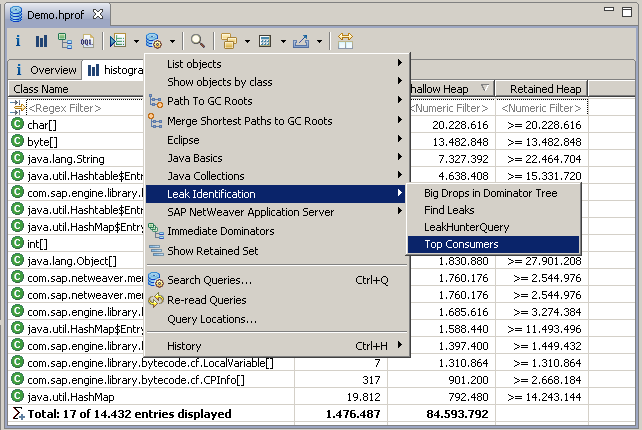
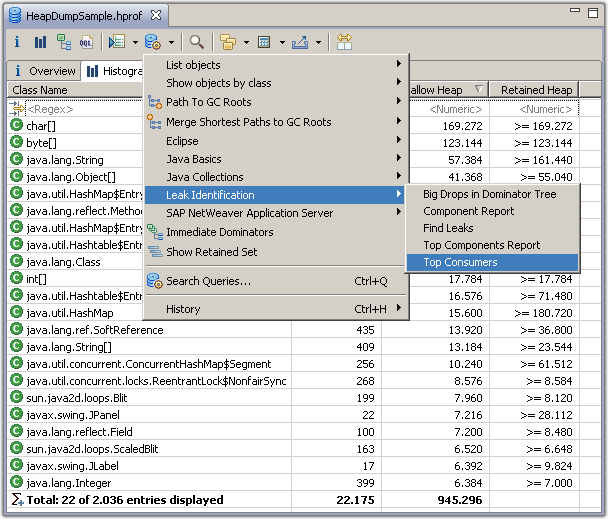
small update to documentation: add initial nn page, added configuration page, removed internal custom class names from screenshots

diff --git a/plugins/org.eclipse.mat.ui.help/tasks/configure_mat.html b/plugins/org.eclipse.mat.ui.help/tasks/configure_mat.html
@@ -1,0 +1,66 @@
+<?xml version="1.0" encoding="UTF-8"?><!DOCTYPE html PUBLIC "-//W3C//DTD XHTML 1.0 Transitional//EN" "http://www.w3.org/TR/xhtml1/DTD/xhtml1-transitional.dtd">
+<html lang="en-us" xml:lang="en-us">
+<head>
+<meta content="text/html; charset=utf-8" http-equiv="Content-Type" />
+<meta name="copyright" content="(C) Copyright 2005" />
+<meta name="DC.rights.owner" content="(C) Copyright 2005" />
+<meta content="task" name="DC.Type" />
+<meta name="DC.Title" content="Memory Analyzer Configuration" />
+<meta content="XHTML" name="DC.Format" />
+<meta content="task_configure_mat" name="DC.Identifier" />
+<meta content="en-us" name="DC.Language" />
+<link href="..\styles/commonltr.css" type="text/css" rel="stylesheet" />
+<title>Memory Analyzer Configuration</title>
+</head>
+<body id="task_configure_mat"><a name="task_configure_mat"><!-- --></a>
+
+
+	<h1 class="topictitle1">Memory Analyzer Configuration</h1>
+
+	
+	<div>
+		<div class="section">
+			<p>
+				Well, analyzing big heap dumps can also require more heap space.
+				Give it
+				some more memory (possible by running on a 64-bit machine):
+			</p>
+
+
+			<samp class="codeph">MemoryAnalyzer.exe -vmargs -Xmx4g</samp>
+
+			<p>Alternatively, edit the MemoryAnalyzer.ini to
+				contain:</p>
+
+
+			<div class="p">
+				<pre class="codeblock">-vmargs
+-Xmx2g</pre>
+
+			</div>
+
+
+			<p>
+				For more details, check out the section
+				<a href="http://help.eclipse.org/ganymede/topic/org.eclipse.platform.doc.user/tasks/running_eclipse.htm">Running Eclipse</a>
+				in the Help Center. It also contains more details if you are running
+				on Mac OS X.
+			</p>
+
+
+			<p>If you are running the Memory Analyzer inside your Eclipse SDK,
+				you need to edit the eclipse.ini file.</p>
+
+
+			<p>The memory intensive parts is the parsing. Try parsing the heap
+				dump from the command line. Once it has been parsed, it usually can
+				be opened with less memory in the GUI.</p>
+
+		</div>
+
+	</div>
+
+<div />
+
+</body>
+</html>

diff --git a/plugins/org.eclipse.mat.ui.help/noteworthy.html b/plugins/org.eclipse.mat.ui.help/noteworthy.html
@@ -1,0 +1,38 @@
+<?xml version="1.0" encoding="UTF-8"?><!DOCTYPE html PUBLIC "-//W3C//DTD XHTML 1.0 Transitional//EN" "http://www.w3.org/TR/xhtml1/DTD/xhtml1-transitional.dtd">
+<html lang="en-us" xml:lang="en-us">
+<head>
+<meta content="text/html; charset=utf-8" http-equiv="Content-Type" />
+<meta name="copyright" content="(C) Copyright 2005" />
+<meta name="DC.rights.owner" content="(C) Copyright 2005" />
+<meta content="reference" name="DC.Type" />
+<meta name="DC.Title" content="New &amp; Noteworthy" />
+<meta name="abstract" content="Here are descriptions of some of the more interesting or significant changes made to the Memory Analyzer for the 0.8 release." />
+<meta name="description" content="Here are descriptions of some of the more interesting or significant changes made to the Memory Analyzer for the 0.8 release." />
+<meta content="XHTML" name="DC.Format" />
+<meta content="ref_noteworthy" name="DC.Identifier" />
+<meta content="en-us" name="DC.Language" />
+<link href="styles/commonltr.css" type="text/css" rel="stylesheet" />
+<title>New &amp; Noteworthy</title>
+</head>
+<body id="ref_noteworthy"><a name="ref_noteworthy"><!-- --></a>
+
+
+	<h1 class="topictitle1">New &amp; Noteworthy</h1>
+
+	
+	<div><p>Here are descriptions of some of the more interesting or
+	significant changes made to the Memory Analyzer for the 0.8 release.</p>
+
+		<div class="section"><h2 class="sectiontitle">Inspector View Enhancements</h2>
+			
+			<p>When analyzing a dump from a SWT application, the inspector recreates
+			   colors and images and displays the information in the lower left corner.</p>
+
+		</div>
+
+	</div>
+
+<div />
+
+</body>
+</html>

diff --git a/plugins/org.eclipse.mat.ui.help/tasks/basictutorial.html b/plugins/org.eclipse.mat.ui.help/tasks/basictutorial.html
@@ -213,7 +213,7 @@
 				<img src="../mimes/i-dominatortree.png" />
 			</p>
 
-			<img src="../mimes/29f9f92f.jpg" />
+			<img src="../mimes/29f9f92f.png" />
 			<p>
 				In the screenshot shown above, the biggest objects in
 				the heap are displayed on the first tree level. Objects

diff --git a/plugins/org.eclipse.mat.ui.help/reference/inspections/component_report.html b/plugins/org.eclipse.mat.ui.help/reference/inspections/component_report.html
@@ -271,7 +271,6 @@
 
 	</div>
 
-<div />
 
 </body>
 </html>
